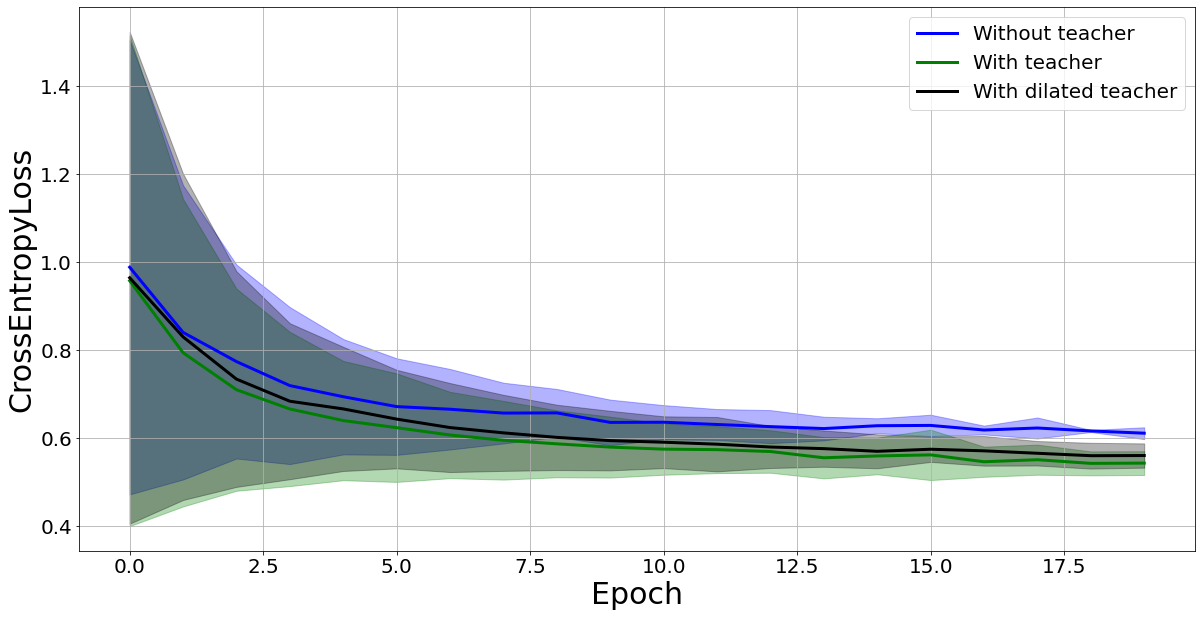
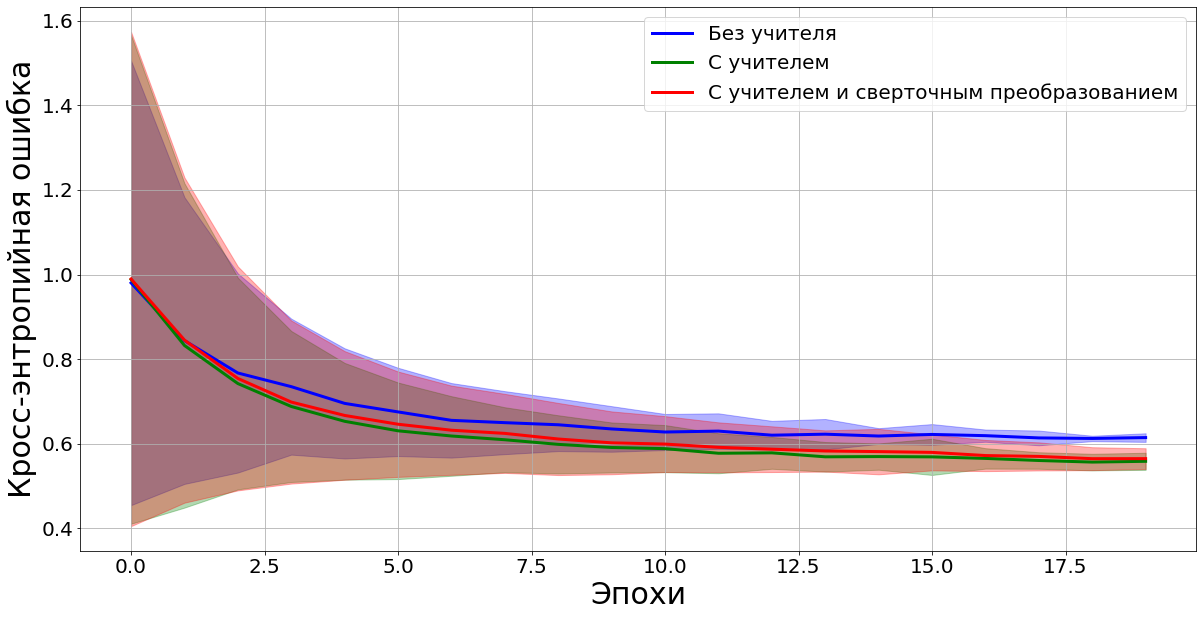
Updates from Overleaf

diff --git a/Text/experiment.tex b/Text/experiment.tex
@@ -4,7 +4,28 @@
 
 Для анализа моделей, полученных путем дистилляции модели учителя в модель ученика, проводится вычислительный эксперимент для задачи классификации.
 
-Эксперимент проводится для выборок FashionMNIST~\cite{FMNIST} --- набора изображений предметов одежды и MNIST~\cite{MNIST} --- набора изображений рукописных цифр. В качестве моделей учителя $\textbf{f}$ и ученика $\textbf{g}$ рассматриваются четырёхслойная и однослойная нейронные сети соответсвенно. Функция активации --- ReLu. Для решения оптимизационной задачи используется градиентный метод Adam~\cite{Adam}.
+Эксперимент проводится для выборок FashionMNIST~\cite{FMNIST} --- набора изображений предметов одежды и MNIST~\cite{MNIST} --- набора изображений рукописных цифр. В качестве модели учителя $\textbf{f}$ и модели ученика $\textbf{g}$ рассматривается многослойный перцептрон с четырьми и одним скрытыми слоями соответственно:
+
+\begin{table}[h!t]
+\begin{center}
+\caption{Описание моделей}
+\label{table_1}
+\begin{tabular}{|c|c|c|}
+\hline
+	 & Учитель &\ Ученик\\
+	\hline
+	\multicolumn{1}{|l|}{Структура}
+	& [784,256,128,64,64,10]& [784,64,10]\\
+	\hline
+	\multicolumn{1}{|l|}{Число параметров}
+	& 246400 & 50816\\
+\hline
+
+\end{tabular}
+\end{center}
+\end{table}
+
+Функция активации --- ReLu. Для решения оптимизационной задачи используется градиентный метод оптимизации Adam~\cite{Adam}.
 
 Выборки разделяются на 4 части: обучающая, многоресурсная, малоресурсная, а также тестовая часть. Обучающая часть содержит 60000 объектов, многоресурсная часть содержит 59000 объектов, малоресурсная часть содержит 1000 объектов, а тестовая часть содержит 10000 объектов.
 
@@ -59,9 +80,9 @@
 \caption{Качество аппроксимации на тестовой выборке. Все результаты усреднены по 5 запускам. a) точность; b) кросс-энтропийная ошибка между истинными и предсказанными учеником метками}
 \end{figure}
 
-На рис.1а показан график зависимости метрики accuracy на тестовой выборке между истинными метками объектов и вероятностями, предсказанными моделью ученика.
+На рис.1а показан график зависимости метрики точности на тестовой выборке между истинными метками объектов и вероятностями, предсказанными моделью ученика.
 
-На рис.1б показан график зависимости кросс-энтропии на тестовой выборке между истинными метками объектов и вероятностями, предсказанными моделью ученика.
+На рис.1б показан график зависимости кросс-энтропийной ошибки на тестовой выборке между истинными метками объектов и вероятностями, предсказанными моделью ученика.
 
 На графиках видно, что модель, использующая метки учителя, показывает лучшее значение точности, при этом наблюдается значительное снижение кросс-энтропийной ошибки.
 
@@ -77,9 +98,9 @@
 \caption{Качество аппроксимации на тестовой выборке. Все результаты усреднены по 5 запускам. a) точность; b) кросс-энтропийная ошибка между истинными и предсказанными учеником метками}
 \end{figure}
 
-На рис.2а показан график зависимости метрики accuracy на тестовой выборке между истинными метками объектов и вероятностями, предсказанными моделью ученика.
+На рис.2а показан график зависимости метрики  точности на тестовой выборке между истинными метками объектов и вероятностями, предсказанными моделью ученика.
 
-На рис.2б показан график зависимости кросс-энтропии на тестовой выборке между истинными метками объектов и вероятностями, предсказанными моделью ученика.
+На рис.2б показан график зависимости кросс-энтропийной ошибки на тестовой выборке между истинными метками объектов и вероятностями, предсказанными моделью ученика.
 
 На графиках видно, что модель, использующая метки учителя, показывает лучшее значение точности, при этом наблюдается снижение кросс-энтропийной ошибки.
 
@@ -100,9 +121,9 @@
 \caption{Качество аппроксимации на тестовой выборке. Все результаты усреднены по 5 запускам. a) точность; b) кросс-энтропийная ошибка между истинными и предсказанными учеником метками}
 \end{figure}
 
-На рис.4а показан график зависимости метрики accuracy на тестовой выборке между истинными метками объектов и вероятностями, предсказанными моделью ученика.
+На рис.4а показан график зависимости метрики точности на тестовой выборке между истинными метками объектов и вероятностями, предсказанными моделью ученика.
 
-На рис.4б показан график зависимости кросс-энтропии на тестовой выборке между истинными метками объектов и вероятностями, предсказанными моделью ученика.
+На рис.4б показан график зависимости кросс-энтропийной ошибки на тестовой выборке между истинными метками объектов и вероятностями, предсказанными моделью ученика.
 
 На графиках видно, что значения точности и кросс-энтропийной ошибки модели, использующей метки учителя на выборке с шумом, лежат между соответствующими значениями для модели без учителя и для модели, использующей метки учителя на выборке без шума.
 
@@ -124,9 +145,9 @@
 \caption{Качество аппроксимации на тестовой выборке. Все результаты усреднены по 5 запускам. a) точность; b) кросс-энтропийная ошибка между истинными и предсказанными учеником метками}
 \end{figure}
 
-На рис.6а показан график зависимости метрики accuracy на тестовой выборке между истинными метками объектов и вероятностями, предсказанными моделью ученика.
+На рис.6а показан график зависимости метрики точности на тестовой выборке между истинными метками объектов и вероятностями, предсказанными моделью ученика.
 
-На рис.6б показан график зависимости кросс-энтропии на тестовой выборке между истинными метками объектов и вероятностями, предсказанными моделью ученика.
+На рис.6б показан график зависимости кросс-энтропийной ошибки на тестовой выборке между истинными метками объектов и вероятностями, предсказанными моделью ученика.
 
 На графиках видно, что значения точности и кросс-энтропийной ошибки модели, использующей метки учителя на выборке с преобразованием, лежат между соответствующими значениями для модели без учителя и для модели, использующей метки учителя на выборке без преобразования.
 
@@ -135,16 +156,16 @@
 В качестве преобразования элементов выборки FashionMNIST~\cite{FMNIST} в элементы выборки MNIST~\cite{MNIST} используем модель вариационного автокодировщика~\cite{VAE}, аппроксимирующую отображение $\varphi$.
 \paragraph{Базовая модель автокодировщика.} Данная модель состоит из двух частей. Сначала строится вероятностоное распределение в скрытом пространстве, которое позволяет генерировать скрытые представления для одного объекта. Далее с помощью декодировщика строится вероятностное распределение, позволяющее генерировать реконструкции исходного объекта.
 \begin{enumerate}
-    \item $\mathbf{q_{\alpha}(z|x)}$ --- вероятностный кодировщик;
-    \item $\mathbf{p_{\beta}(\hat{x}|z)}$ --- вероятностный декодировщик;
+    \item $q_{\alpha}(\mathbf{z}|\mathbf{x})$ --- вероятностный кодировщик;
+    \item $p_{\beta}(\hat{\mathbf{x}}|\mathbf{z})$ --- вероятностный декодировщик;
     \item функция потерь:
     \[
     \begin{aligned}
-    \mathbf{\mathcal{L}_{\text{VAE}}(\alpha, \beta)=\sum\limits_{i=1}^{l}\text{E}_{z\sim q_{\alpha}(z|x_{i})}\log{p_{\beta}(x_{i}|z)}dz-\text{KL}(q_{\alpha}(z|x_{i})||p(z))},
+    \mathcal{L}_{\text{VAE}}(\alpha, \beta)=\sum\limits_{i=1}^{l}\mathsf{E}_{\mathbf{z}\sim q_{\alpha}(\mathbf{z}|\mathbf{x}_{i})}\log{p_{\beta}(\mathbf{x}_{i}|\mathbf{z})} d \mathbf{z}-\mathsf{KL}(q_{\alpha}(\mathbf{z}|\mathbf{x}_{i}) || p(\mathbf{z})),
     \end{aligned}
     \]
     где
-    $\mathbf{p(z)\sim \mathcal{N}(0,\sigma^{2}\mathbf{I})}$ 
+    $p(\mathbf{z})\sim \mathcal{N}(0,\sigma^{2}\mathbf{I})$ 
     --- априорное распределение.
 \end{enumerate}
 Получаем оптимизационную задачу:
@@ -166,13 +187,18 @@ $$\hat{\alpha}, \hat{\beta} = \arg\max_{\alpha, \beta} \mathcal{L}(\alpha, \beta
 \end{figure}
 Далее воспользуемся моделью вариационного автокодировщика~\cite{VAE}, состоящего из одного кодировщика и двух декодировщиков, соответствующих генерации объектов цифр и одежды соответственно. Используем модель с размером скрытого представления, равным 64.
 
+\begin{figure}[h!t]\center
+{\includegraphics[width=0.8\textwidth]{results/VAE.png}}
+\caption{Пример работы вариационного автокодировщика}
+\end{figure}
+
 На основе полученной выборки обучим модель вариационного автокодировщика~\cite{VAE}, минимизируя ошибку между выходом модели и исходным значением --- изображением одежды и ошибку между выходом модели и целевым значением --- изображением цифр, соответствующего исходному объекту.
 
-Полученная модель генеририрует семейство новых объектов - изображений цифры и изображений одежды для одного и того же изображения одежды.
+Полученная модель генеририрует семейство новых объектов --- изображений цифры и изображений одежды для одного и того же изображения одежды.
 
 \newpage
 
-Посмотрим также на изменение выхода модели при изменении случайного вектора в скрытом представлении. Для визуализации рассмотрим скрытое представление размерности 2:\\
+Проанализируем изменение выхода модели при изменении случайного вектора в скрытом представлении. Для визуализации рассмотрим скрытое представление размерности 2:
 
 \begin{figure}[h!t]\center
 \subfloat[]
@@ -182,6 +208,8 @@ $$\hat{\alpha}, \hat{\beta} = \arg\max_{\alpha, \beta} \mathcal{L}(\alpha, \beta
 {\includegraphics[width=0.4\textwidth]{results/decoder_fashion.png}}\\
 \caption{Зависимость выхода модели от изменения вектора в скрытом представлении для генерации a) цифр; b) одежды}
 \end{figure}
+
+Видно, что классы соответствуют друг другу, как представлено на рис.7а. То есть рис.9 не противоречит рис.7.
 
 \subsection{Анализ качества модели, предложенной на основе вариационного автокодировщика}
 

diff --git a/Text/introduction.tex b/Text/introduction.tex
@@ -3,17 +3,20 @@
 
 \section{Введение}
 
-\paragraph{Актуальность темы.} Сбор и обработка наборов данных для каждой новой задачи и области являются чрезвычайно дорогими и трудоемкими процессами, и не всегда могут быть доступны достаточные данные для обучения. Поэтому снижение сложности модели --- приоритетная задача, необходимая для повышения интерпретируемости моделей.
+\paragraph{Актуальность темы.} Традиционно алгоритмы машинного обучения разрабатываются для решения конкретной задачи. Поэтому, в зависимости от новой постановки задачи, модель необходимо перестраивать с нуля. Сбор и обработка наборов данных для каждой новой задачи и области являются чрезвычайно дорогими и трудоемкими процессами, и не всегда могут быть доступны достаточные данные для обучения. В этом случае можно использовать перенос знаний с большой модели на модель с меньшим числом параметров. С другой стороны снижение сложности модели --- приоритетная задача, необходимая для повышения интерпретируемости моделей.
 
-\paragraph{Цель работы.} Одним из способов повышения качества алгоритма машинного обучения является использование модели с большим числом параметров, ответы которой можно использовать при обучении модели с меньшим числом параметров, более подходящей для развертывания. Цель данной работы заключается в понижении сложности модели машинного обучения при переходе к данным меньшей мощности. Для этого предлагается использовать два основных метода - дистилляция моделей и доменная адаптация.
+\paragraph{Цель работы.} Одним из способов повышения качества алгоритма машинного обучения является использование модели с большим числом параметров, ответы которой можно использовать при обучении модели с меньшим числом параметров, более интерпретируемой. Цель данной работы заключается в понижении сложности модели машинного обучения при переходе к данным меньшей мощности. Для этого предлагается использовать два основных метода --- дистилляция моделей и доменная адаптация.
 
-\paragraph{Новизна.} Предложен подход для случая, когда модели учителя и ученика заданы на выборках разной мощности. При этом задана связь между выборками.
+\paragraph{Новизна.} Предложен подход для случая, когда модели учителя и ученика заданы на выборках разной мощности из разных, но схожих генеральных совокупностей. При чем задано отображение с выборки меньшей мощности в выборку большей мощности.
 
 \subsection{Обзор предметной области}
 
-Дистилляция моделей машинного обучения использует метки модели с большим числом параметров для обучения модели с меньшим числом параметров. В~\cite{Hinton2015} рассматривается метод дистилляции, предложенной Джеффри Хинтоном, с учетом меток учителя при помощи функции \text{softmax} с параметром температуры, а в~\cite{Vapnik2016} рассматривается объединение методов дистилляци, предложенной Джеффри Хинтоном, и привилегированной информации~\cite{Vapnik2016}, предложенной Владимиром Вапником, в обобщенную дистилляцию. Дистиляцция моделей используется в широком классе задач. В~\cite{MDASR} рассматривается метод дистилляции моделей для задачи распознавания речи.
+Дистилляция моделей машинного обучения использует метки модели с большим числом параметров для обучения модели с меньшим числом параметров. В~\cite{Hinton2015} рассматривается метод дистилляции, предложенной Джеффри Хинтоном, с учетом меток учителя при помощи функции \text{softmax} с параметром температуры, а в~\cite{Vapnik2016} рассматривается объединение методов дистилляци, предложенной Джеффри Хинтоном, и привилегированной информации~\cite{Vapnik2016}, предложенной Владимиром Наумовичем Вапником, в обобщенную дистилляцию. Дистиляцция моделей используется в широком классе задач. В~\cite{MDASR} рассматривается метод дистилляции моделей для задачи распознавания речи. В~\cite{Object Detection} рассматривается метод дистилляции моделей для задачи распознавания объектов с использованием взвешенной кросс-энтропии для устранения дисбаланса классов. В~\cite{Semantic Segmentation} рассматривается метод дистилляции моделей для задачи семантической сегментации с использованием GAN. В~\cite{Improved Distillation} предлагается усовершенствованный метод дистилляции с использованием помимо модели учителя также и модели помощника - сети среднего размера между размерами учителя и ученика.
 
- Выборки могут состоять из объектов, которые можно разделить на домены~\cite{image_to_image, DA via prompt learning}. К примеру, можно составить отображение из множества реальных фотографий малой мощности во множество сгенерированных движком изображений, мощность которого естественно больше~\cite{DA,UDA}. Так, в\cite{image_to_image} рассматриваются отображения, изменяющие стиль изображений, а в\cite{DA} предлагается использовать синтетически сгенерированные данные для обучения взамен ре. Одним из примеров генерации новых изображений является работа модели вариационного автокодировщика~\cite{VAE}, способного для одного и того же объекта строить вероятностное распределение, на основе которого можно получить целое семейство новых объектов. Для задачи дистилляции, предложенной Джеффри Хинтоном~\cite{Hinton2015}, исходный и целевой домены равны. Различные постановки задач доменной адаптации описываются в~\cite{DeepvisDA}, встречаются постановки с частично размеченным целевым доменом и неразмеченным вовсе. Таким образом, доменная адаптация использует размеченные данные нескольких исходных доменов для выполнения новых задач в целевом домене.
+Выборки могут состоять из объектов, которые можно разделить на домены~\cite{image_to_image, DA via prompt learning}. К примеру, можно составить отображение из множества реальных фотографий малой мощности во множество сгенерированных движком изображений, мощность которого естественно больше~\cite{DA,UDA}. Так, в~\cite{image_to_image, Transfer Learning} рассматриваются отображения, изменяющие стиль изображений. Одним из примеров генерации новых изображений является работа модели вариационного автокодировщика~\cite{VAE}, способного для одного и того же объекта строить вероятностное распределение, на основе которого можно получить целое семейство новых объектов. Для задачи дистилляции, предложенной Джеффри Хинтоном~\cite{Hinton2015}, исходный и целевой наборы данных совпадают.
+ 
+Различные постановки задач доменной адаптации описываются в~\cite{DeepvisDA}, встречаются постановки с частично размеченным целевым доменом и неразмеченным вовсе. Таким образом, доменная адаптация использует размеченные данные нескольких исходных доменов для выполнения новых задач в целевом домене.
+В~\cite{MDASR} рассматривается метод доменной адаптации для задачи распознавания речи. В~\cite{Acoustic Models} рассматривается метод доменной адаптации для обучения акустических моделей на основе дистилляции моделей.
  
 Типичной задачей дистилляции моделей на многодоменных выборках является задача машинного перевода текстов, описанная в~\cite{KimRush2016}.
 

diff --git a/Text/bibliography.tex b/Text/bibliography.tex
@@ -32,7 +32,7 @@
     Applications. --- 2021.
     
     \bibitem{DA}
-    \textit{S. Sankaranarayanan, Y. Balaji, A. Jain} Learning from Synthetic Data: Addressing Domain Shift for Semantic Segmentation. --- 2018
+    \textit{S. Sankaranarayanan, Y. Balaji, A. Jain} Learning from Synthetic Data: Addressing Domain Shift for Semantic Segmentation. --- 2018.
     
     \bibitem{Adam}
     \textit{Kingma D., Ba J.} Adam: A Method for Stochastic Optimization // ICLR. — 2015.
@@ -46,13 +46,31 @@
     \bibitem{Model compression}
     \textit{Zhiyuan Wu, Yu Jiang,  Minghao Zhao, Chupeng Cui} Spirit Distillation: A Model Compression Method with Multi-domain Knowledge Transfer
     \bibitem{UDAB}
-    \textit{Y.Ganin, V.Lempitsky} Unsupervised Domain Adaptation by Backpropagation. --- 2015
+    \textit{Y.Ganin, V.Lempitsky} Unsupervised Domain Adaptation by Backpropagation. --- 2015.
     
     \bibitem{Multi Sourcse Distilling}
-    \textit{Sicheng Zhao, Guangzhi Wang, Shanghang Zhang, Yang Gu} Multi-source Distilling Domain Adaptation. --- 2020
+    \textit{Sicheng Zhao, Guangzhi Wang, Shanghang Zhang, Yang Gu} Multi-source Distilling Domain Adaptation. --- 2020.
     
     \bibitem{DA through distillation}
-    \textit{Brady Zhou, Nimit Kalra,  Philipp Krahenbuhl} Domain Adaptation Through Task Distillation. --- 2020
-
+    \textit{Brady Zhou, Nimit Kalra,  Philipp Krahenbuhl} Domain Adaptation Through Task Distillation. --- 2020.
+    
+    \bibitem{Object Detection}
+    \textit{Guobin Chen, Wongun Choi, Xiang Yu} Learning Efficient Object Detection Models with Knowledge Distillation. --- 2017.
+    
+    \bibitem{Improved Distillation}
+    \textit{Seyed Iman Mirzadeh, Mehrdad Farajtabar, Ang Li} Improved Knowledge Distillation via Teacher Assistant. --- 2020.
+    
+    \bibitem{Semantic Segmentation}
+    \textit{Yifan Liu, Ke Chen, Chris Liu} Structured Knowledge Distillation for Semantic Segmentation. --- 2018.
+    
+    \bibitem{Acoustic Models}
+    \textit{T. Asami, R. Masumura, Y.Yamaguchi} Domain adaptation of DNN acoustic models using knowledge distillation. --- 2017.
+    
+    \bibitem{Transfer Learning}
+    \textit{Srikanth Tammina} Transfer learning using VGG-16 with Deep
+    Convolutional Neural Network for Classifying Images. --- 2019.
+    
+    \bibitem{Github}
+    \textit{Code on Github}\\ https://github.com/kbayazitov/distillation/blob/main/code/main.ipynb
 	
 \end{thebibliography}

diff --git a/Text/task.tex b/Text/task.tex
@@ -5,7 +5,8 @@
 \subsection{Базовая постановка задачи дистилляции}
 
 Задана выборка 
-$$\mathfrak{D}=(\mathbf{X},\mathbf{Y}), \mathbf{X} \in \mathbb{X}, \mathbf{Y} \in \mathbb{Y},$$
+$$\mathfrak{D}=(\mathbf{X},\mathbf{Y}), \quad \mathbf{X} \in \mathbb{X},
+\quad \mathbf{Y} \in \mathbb{Y},$$
 где множество $\mathbb{Y}=\{1,...,R\}$ для задачи классификации, где $R$ --- число классов, множество $\mathbb{Y}=\mathbb{R}$ для задачи регресии.
 
 Предполагается, что задана обученная модель с большим числом параметров --- модель учителя. Модель учителя $\mathbf{f}$ принадлежит параметрическому семейству функций: $$\mathfrak{F}=\{\mathbf{f}|\mathbf{f}=\text{softmax}(\mathbf{v(x)}/T), \mathbf{v}:\mathbb{R}^{n}\rightarrow \mathbb{R}^{R}\}.$$
@@ -32,8 +33,11 @@ $$\hat{\mathbf{w}} = \arg\min_{\mathbf{w} \in \mathbb{W}} \mathcal{L}(\mathbf{w,
 \subsection{Постановка задачи дистилляции для многодоменной выборки}
 
 Заданы две выборки:
-$$\mathfrak{D}_{\text{s}}=(\mathbf{X}_{\text{s}},\mathbf{Y}_{\text{s}}), \quad \mathbf{X}_{\text{s}} \in \mathbb{X}_{\text{s}}, \mathbf{Y}_{\text{s}} \in \mathbb{Y}$$
-$$\mathfrak{D}_{\text{t}}=(\mathbf{X}_{\text{t}},\mathbf{Y}_{\text{t}}), \quad \mathbf{X}_{\text{t}} \in \mathbb{X}_{\text{t}}, \mathbf{Y}_{\text{t}} \in \mathbb{Y},$$
+$$\mathfrak{D}_{\text{s}}=(\mathbf{X}_{\text{s}},\mathbf{Y}_{\text{s}}),
+\quad \mathbf{X}_{\text{s}} \in \mathbb{X}_{\text{s}},
+\quad \mathbf{Y}_{\text{s}} \in \mathbb{Y}$$
+$$\mathfrak{D}_{\text{t}}=(\mathbf{X}_{\text{t}},\mathbf{Y}_{\text{t}}), \quad \mathbf{X}_{\text{t}} \in \mathbb{X}_{\text{t}},
+\quad \mathbf{Y}_{\text{t}} \in \mathbb{Y},$$
 где $\mathfrak{D}_{\text{s}}, \mathfrak{D}_{\text{t}}$ --- исходный и целевой наборы данных. Для задачи дистилляции, предложенной Джеффри Хинтоном, $\mathfrak{D}_{\text{s}}=\mathfrak{D}_{\text{t}}$.
 
 Предполагается, что число объектов в выборках не совпадают:

diff --git a/Text/conclusion.tex b/Text/conclusion.tex
@@ -11,31 +11,31 @@
 	Ученик & Учитель & Связь $\varphi$ & Точность & Кросс-энтропия\\
 	\hline
 	\multicolumn{1}{|l|}{FashionMNIST-Train}
-	& --- & --- & 0{,}879 \pm& 0{,}376\\
+	& --- & --- & 0{,}879 & 0{,}376\\
 	\hline
 	\multicolumn{1}{|l|}{FashionMNIST-Train}
 	& FashionMNIST & --- & 0{,}884 & 0.332\\
 	\hline
 	\multicolumn{1}{|l|}{FashionMNIST-Small}
-	& --- & --- & 0.796 & 0.616\\
+	& --- & --- & 0{,}798 \pm 0{,}004 & 0{,}615 \pm 0{,}010\\
 	\hline
 	\multicolumn{1}{|l|}{FashionMNIST-Small}
-	& FashionMNIST-Big & --- & 0.812 & 0.560\\
+	& FashionMNIST-Big & --- & 0{,}807 \pm 0{,}007 & 0{,}559 \pm 0{,}020\\
 	\hline
 	\multicolumn{1}{|l|}{FashionMNIST-Small}
-	& FashionMNIST-Big& Noise & 0.811 & 0.563\\
+	& FashionMNIST-Big& Noise & 0{,}806 \pm 0{,}013 & 0{,}574 \pm 0{,}035\\
 	\hline
 	\multicolumn{1}{|l|}{FashionMNIST-Small}
-	& FashionMNIST-Big & Dilation & 0.804 & 0.576\\
+	& FashionMNIST-Big & Dilation & 0{,}806 \pm 0{,}009 & 0{,}565 \pm 0{,}025\\
 	\hline
 	\multicolumn{1}{|l|}{FashionMNIST-Small}
-	& MNIST-Big & VAE& 0.804 & 0.625\\
+	& MNIST-Big & VAE& 0{,}802 \pm 0{,}004 & 0{,}664 \pm 0{,}015\\
 	\hline
 	\multicolumn{1}{|l|}{FashionMNIST-Small}
-	& MNIST-Big & ---& 0.480 & 1.241\\
+	& MNIST-Big & ---& 0{,}410 \pm 0{,}014 & 1{,}248 \pm 0{,}019\\
 	\hline
 	\multicolumn{1}{|l|}{FashionMNIST-Small}
-	& GeneratedMNIST-Big & VAE & 0.806 & 0.576\\
+	& GeneratedMNIST-Big & VAE & 0{,}810 \pm 0{,}008 & 0{,}574 \pm 0{,}019\\
 \hline
 
 \end{tabular}}
